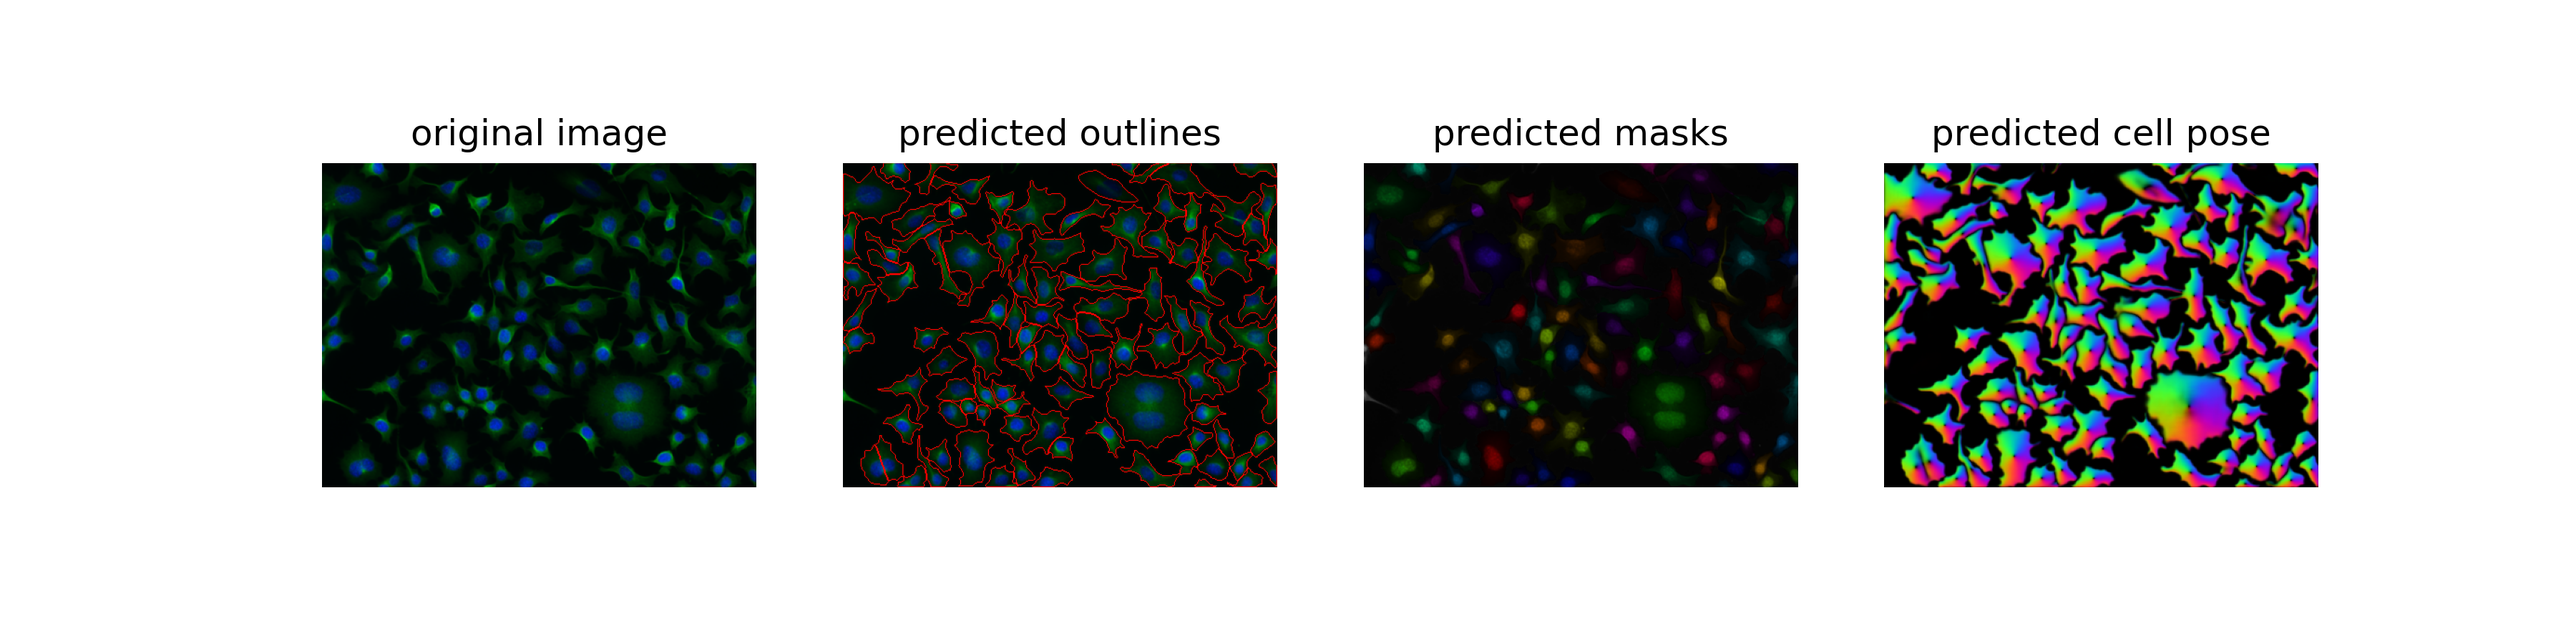
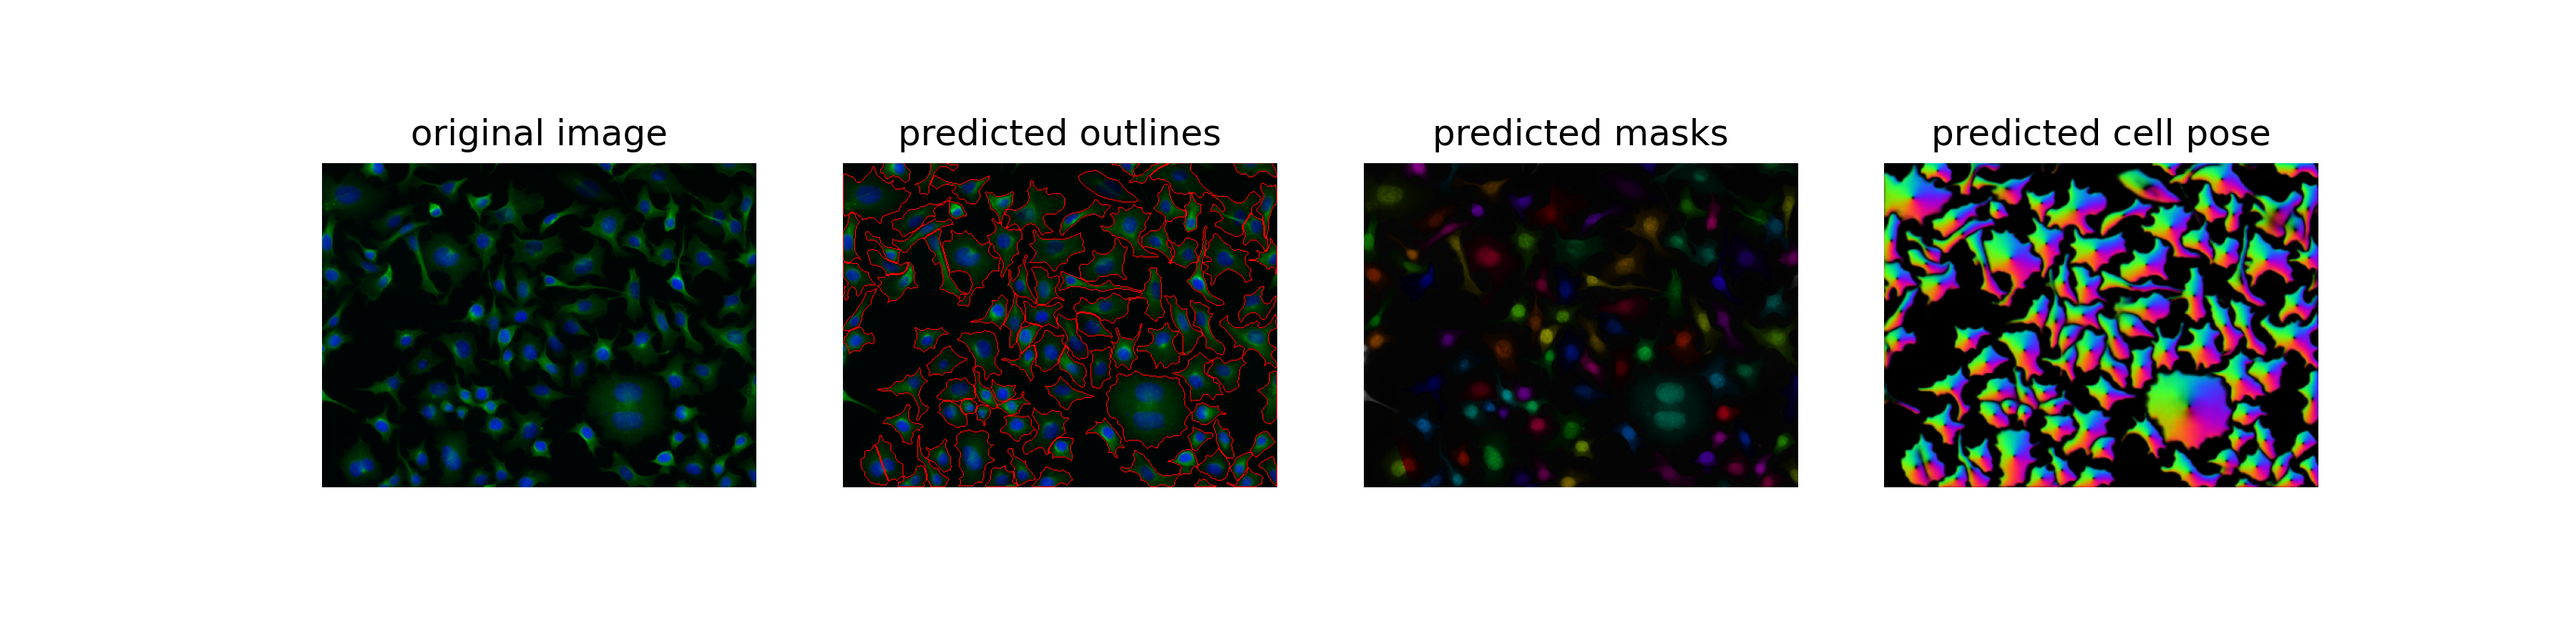
add np.random.seed to generate images with the same colormap

diff --git a/tools/cellpose/cp_segmentation.py b/tools/cellpose/cp_segmentation.py
@@ -23,7 +23,7 @@ def main(inputs, img_path, img_format, output_dir):
         Folder to save the outputs.
     """
     warnings.simplefilter('ignore')
-
+    np.random.seed(42)
     with open(inputs, 'r') as param_handler:
         params = json.load(param_handler)
 
